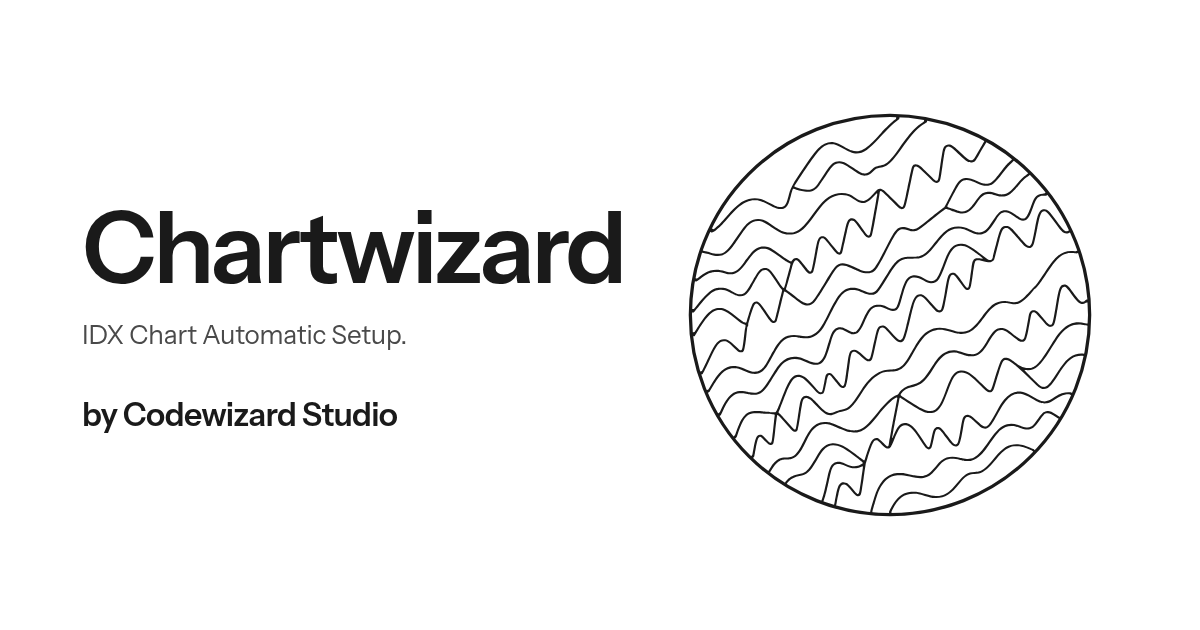
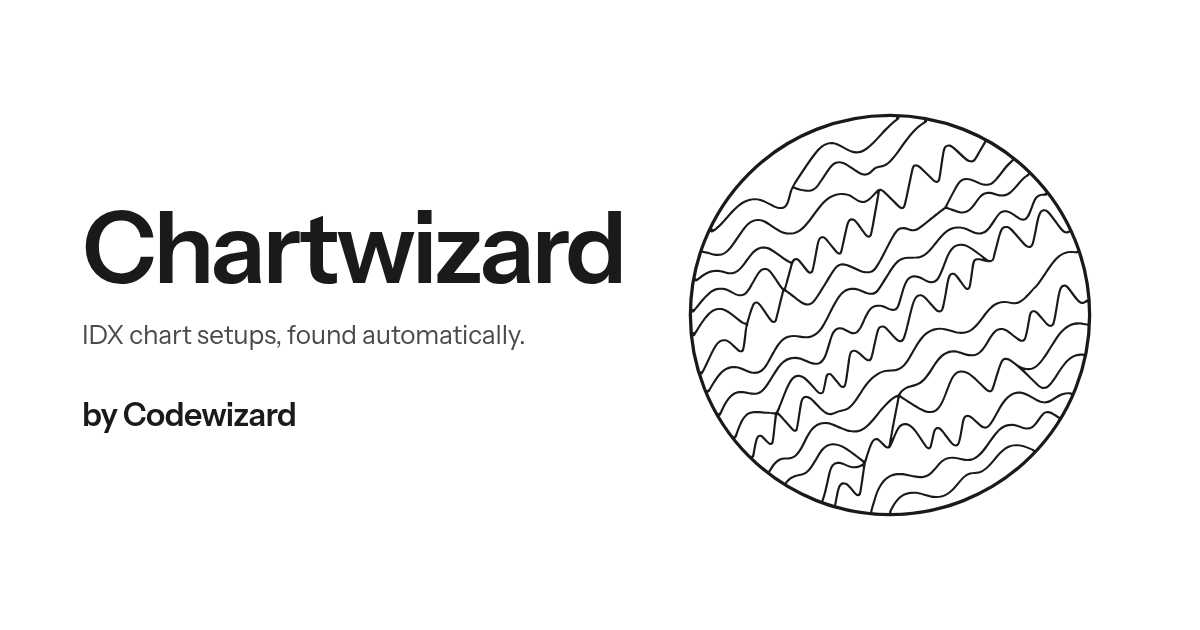
Copy pass: honest Free vs Pro, Mac Beta, Codewizard brand (#6)
* Use the Codewizard icon for favicons, add a link preview and the studio credit

Favicons (ico, svg, 32px png, apple-touch-icon) are the new Codewizard
wave-line icon in ink on paper. assets/og.png (1200x630) sets Chartwizard
and 'by Codewizard Studio' beside the emblem; source in _brand/og.html.
Adds Open Graph and Twitter card meta and a canonical link. The footer
gains 'Made by Codewizard Studio' linking to codewizard.id. The
Chartwizard app icon (assets/logo.svg) stays in the header.

* Revise the download page copy; mark the Mac build Beta; show what Free and Pro get

- Apply Copy Humanizer's wording pass to _data/i18n.yml (id and en).
- Scanner card, hero intro and meta description: Free shows the top 5 setups;
  every setup and the filters are Pro. Say "active" setups, not "live".
- Mark the macOS Apple Silicon build Beta: button, requirements, install
  heading, meta description, FAQ and PRODUCT.md.
- Brand as Codewizard in the footer, OG alt text and og.png (rebuilt 1200x630).
- features_title: Fitur utama / Key features.
- en: licence, the spelling the app UI uses.

---------

Changed region(s): [[0.0925, 0.5127, 0.4317, 0.573], [0.2467, 0.6333, 0.3392, 0.6937]]

diff --git a/_brand/og.html b/_brand/og.html
@@ -31,8 +31,8 @@
   <body>
     <div class="copy">
       <h1>Chartwizard</h1>
-      <p class="lead">IDX Chart Automatic Setup.</p>
-      <p class="by">by Codewizard Studio</p>
+      <p class="lead">IDX chart setups, found automatically.</p>
+      <p class="by">by Codewizard</p>
     </div>
     <img src="../assets/codewizard.svg" alt="">
   </body>

diff --git a/PRODUCT.md b/PRODUCT.md
@@ -20,7 +20,7 @@ Retail traders on the Indonesia Stock Exchange (IDX/BEI), mostly on Windows 10/1
 
 The repository holds Chartwizard's installers and its public documentation; it has no source code. This site is where a trader:
 
-1. **Downloads** the app: Windows installer (newest release) or the macOS arm64 DMG, with version, size, date and SHA-256 in view.
+1. **Downloads** the app: Windows installer (newest release) or the macOS arm64 DMG (Beta), with version, size, date and SHA-256 in view.
 2. **Installs** it past the unsigned-app warnings (SmartScreen, Gatekeeper) and picks a data provider.
 3. **Decides on and activates Pro**: Free and Pro compared, Pro bought on Lynk.id (monthly or yearly), then activated in the app with the purchase email and the Lynk.id order ID (`ACTIVATE-PRO.md`).
 4. **Learns the app** from the tutorials (`TUTORIALS-ID.md`, `TUTORIALS.md`): first sync, reading a chart, indicators, drawings, the Scanner, the Screener and sector rotation (Pro), backup and restore, shortcuts, troubleshooting.
